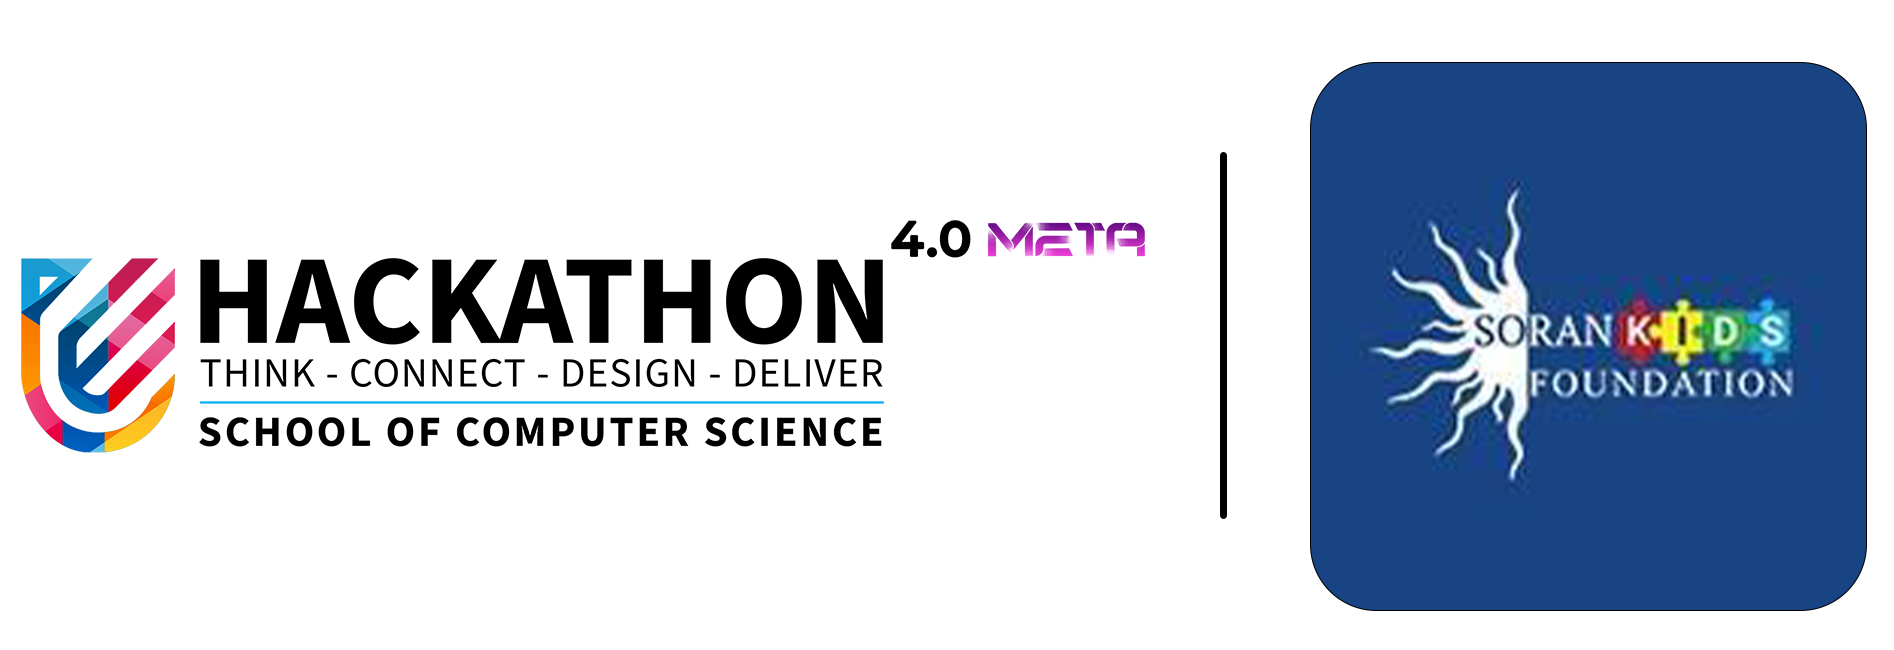
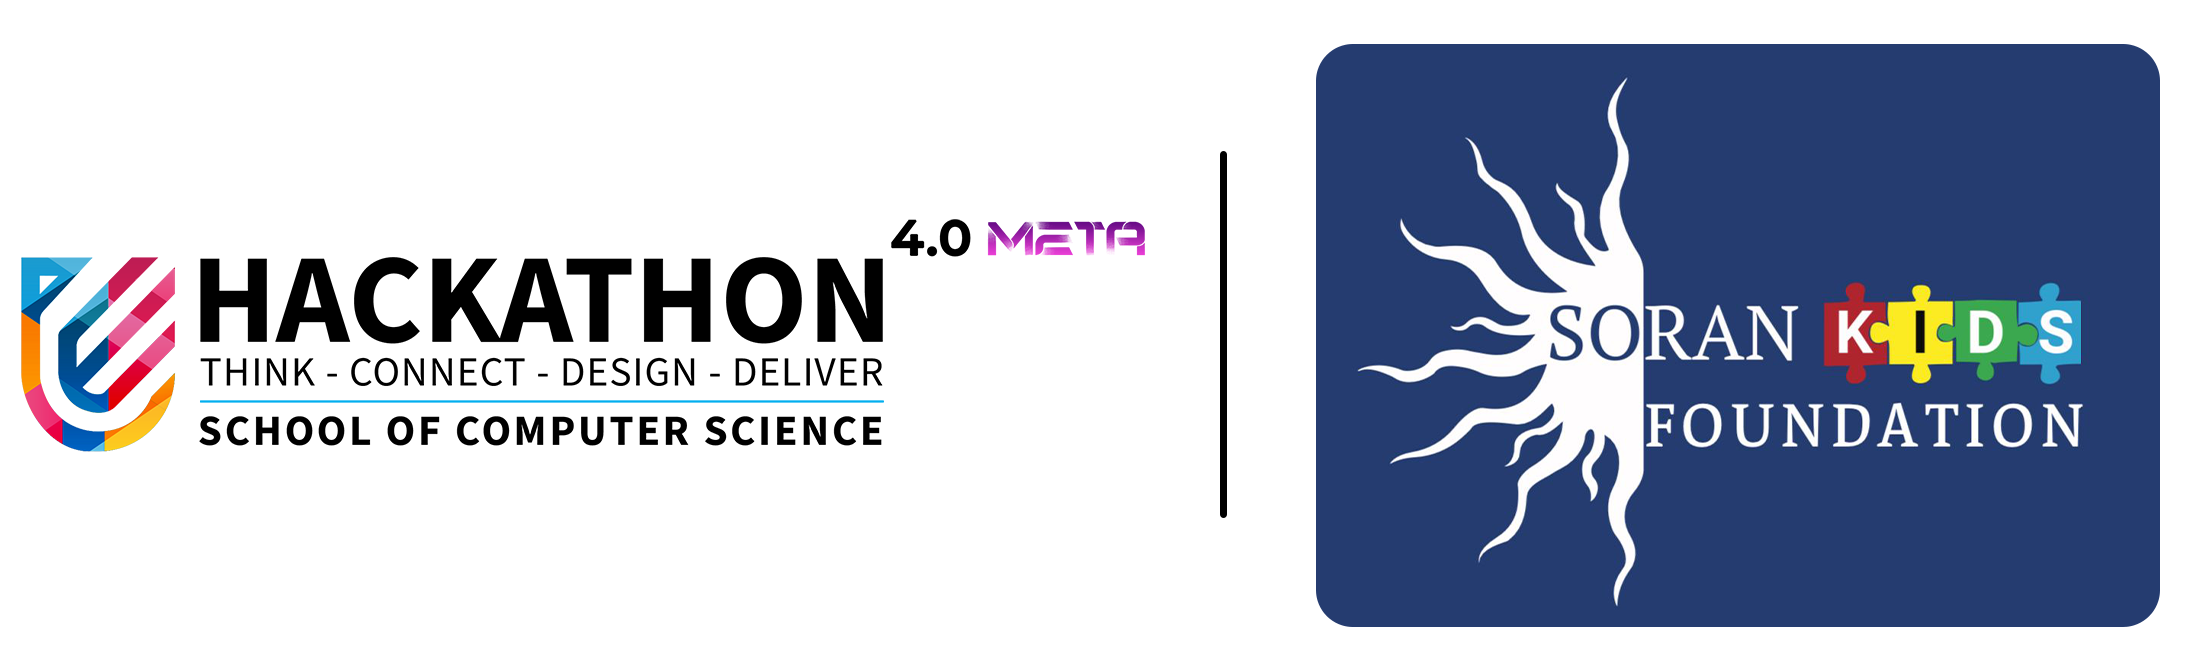
change images

Changed region(s): [[0.0, 0.0615, 0.9968, 0.9538]]

diff --git a/uhackathon23/src/pages/problem statement/Problem.js b/uhackathon23/src/pages/problem statement/Problem.js
@@ -10,13 +10,13 @@ const Problem = () => {
 
 
   const [ps,setPs]=useState({});
-  const [image,setImage]= useState("c4i4.png");
+  const [image,setImage]= useState("socs.png");
   const modalRef = useRef(null);
  
-  // function printImg(){
-  //   const logo=require(image)
-  //   return logo
-  // }
+useState(()=>{
+  setImage('socs.png')
+})
+
   const [keys,setKeys]=useState([])
   const [values,setValues]=useState([])
 
